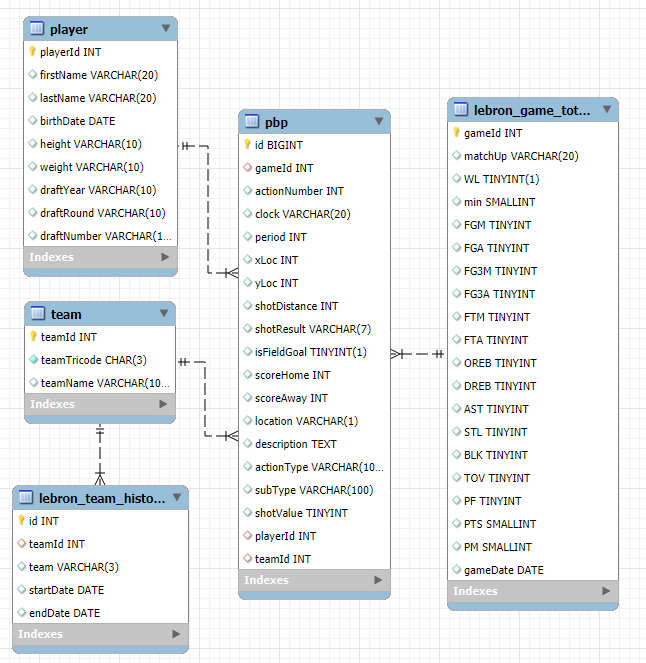
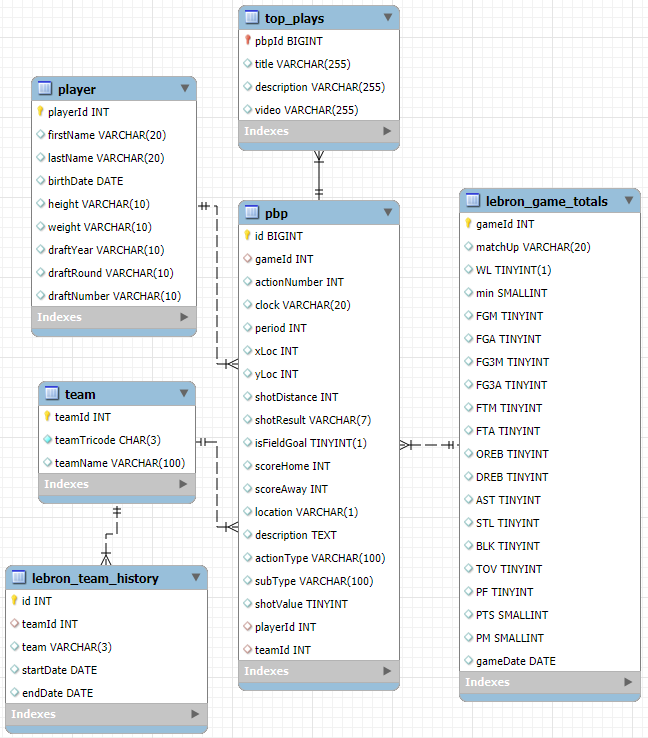
Successfully updated the lebron database
Remember to remove the definer clause from the dump file before
uploading to aiven. Aiven doesn't fw root@localhost

diff --git a/src/lebron/lebron.jsx b/src/lebron/lebron.jsx
@@ -1,4 +1,4 @@
-import { useState } from "react";
+import { useEffect, useState } from "react";
 import { Link } from "react-router-dom";
 import "./lebron.css";
 
@@ -6,16 +6,57 @@ const API_URL = (import.meta.env.VITE_API_URL || "https://personal-website-lomr.
 const quickQueries = [
   { label: "Random Field-goal Makes", query: "SELECT * FROM lebron_fg_makes ORDER BY RAND() LIMIT 10;" },
   { label: "Triple-Doubles", query: "SELECT * FROM triple_double LIMIT 50;" },
-  { label: "The Steph Curry Influence", query: "SELECT matchUp, FG3M, FG3A, gameDate FROM lebron_game_totals ORDER BY FG3M DESC LIMIT 10;"}
+  { label: "The Steph Curry Influence", query: "SELECT matchUp, FG3M, FG3A, gameDate FROM lebron_game_totals ORDER BY FG3M DESC LIMIT 10;"},
+  { label: "Top Plays", query: "SELECT * FROM top_plays;" }
 ];
 
 function getColumns(rows) {
   return [...new Set(rows.flatMap((row) => Object.keys(row)))];
 }
 
-function DataTable({ rows, emptyMessage }) {
+function parseYouTubeTimestamp(value) {
+  if (!value) return null;
+  if (/^\d+$/.test(value)) return Number(value);
+
+  const match = value.match(/^(?:(\d+)h)?(?:(\d+)m)?(?:(\d+)s)?$/);
+  if (!match || !match[0]) return null;
+
+  return (Number(match[1] || 0) * 3600) + (Number(match[2] || 0) * 60) + Number(match[3] || 0);
+}
+
+function getYouTubeEmbedUrl(value) {
+  if (typeof value !== "string") return null;
+
+  try {
+    const url = new URL(value);
+    let videoId = url.searchParams.get("v");
+
+    if (url.hostname === "youtu.be") {
+      videoId = url.pathname.slice(1);
+    } else if (url.pathname.startsWith("/embed/")) {
+      videoId = url.pathname.split("/embed/")[1];
+    } else if (url.pathname.startsWith("/shorts/")) {
+      videoId = url.pathname.split("/shorts/")[1];
+    }
+
+    if (!videoId || !["www.youtube.com", "youtube.com", "youtu.be"].includes(url.hostname)) {
+      return null;
+    }
+
+    const timestamp = parseYouTubeTimestamp(url.searchParams.get("t") || url.searchParams.get("start"));
+    const embedUrl = new URL(`https://www.youtube.com/embed/${videoId.split(/[?&#]/)[0]}`);
+    if (timestamp !== null) embedUrl.searchParams.set("start", timestamp);
+
+    return embedUrl.toString();
+  } catch {
+    return null;
+  }
+}
+
+function DataTable({ rows, emptyMessage, onVideoSelect }) {
   if (rows.length === 0) return <p className="lebron-empty">{emptyMessage}</p>;
   const columns = getColumns(rows);
+  const videoColumn = columns.find((column) => column.toLowerCase() === "video");
 
   return (
     <div className="lebron-table-wrap">
@@ -23,8 +64,25 @@ function DataTable({ rows, emptyMessage }) {
         <thead><tr>{columns.map((column) => <th key={column}>{column}</th>)}</tr></thead>
         <tbody>
           {rows.map((row, rowIndex) => (
-            <tr key={row.gameId ?? rowIndex}>
-              {columns.map((column) => <td key={column}>{row[column] ?? "-"}</td>)}
+            <tr
+              key={row.gameId ?? rowIndex}
+              className={videoColumn && getYouTubeEmbedUrl(row[videoColumn]) ? "lebron-video-row" : ""}
+              onClick={() => {
+                if (videoColumn && getYouTubeEmbedUrl(row[videoColumn])) onVideoSelect(row[videoColumn]);
+              }}
+              onKeyDown={(event) => {
+                if (videoColumn && getYouTubeEmbedUrl(row[videoColumn]) && (event.key === "Enter" || event.key === " ")) {
+                  event.preventDefault();
+                  onVideoSelect(row[videoColumn]);
+                }
+              }}
+              tabIndex={videoColumn && getYouTubeEmbedUrl(row[videoColumn]) ? 0 : undefined}
+            >
+              {columns.map((column) => (
+                <td key={column}>
+                  {column === videoColumn && getYouTubeEmbedUrl(row[column]) ? "Watch video" : row[column] ?? "-"}
+                </td>
+              ))}
             </tr>
           ))}
         </tbody>
@@ -38,6 +96,20 @@ export default function Lebron() {
   const [queryRows, setQueryRows] = useState(null);
   const [queryLoading, setQueryLoading] = useState(false);
   const [queryError, setQueryError] = useState("");
+  const [selectedVideo, setSelectedVideo] = useState(null);
+
+  useEffect(() => {
+    window.scrollTo(0, 0);
+  }, []);
+
+  useEffect(() => {
+    const closeOnEscape = (event) => {
+      if (event.key === "Escape") setSelectedVideo(null);
+    };
+
+    document.addEventListener("keydown", closeOnEscape);
+    return () => document.removeEventListener("keydown", closeOnEscape);
+  }, []);
 
   const runQuery = async (queryToRun) => {
     setQueryLoading(true);
@@ -83,7 +155,7 @@ export default function Lebron() {
       <Link className="lebron-back-link" to="/">Back to Personal Website</Link>
       <header className="lebron-hero">
         <p className="lebron-kicker">NBA data lab</p>
-        <h1>LeBron James Regular Season Play-by-Play Data</h1>
+        <h1>LeBron James Regular Season Play-by-Play Database</h1>
       </header>
       <section className="lebron-section lebron-query-section" aria-labelledby="query-heading">
         <div className="lebron-section-heading"><div><p className="lebron-kicker">Read-only explorer</p><h2 id="query-heading">Query the database</h2></div></div>
@@ -104,6 +176,7 @@ export default function Lebron() {
               <li>team</li>
               <li>lebron_game_totals</li>
               <li>lebron_team_history</li>
+              <li>top_plays</li>
             </ul>
           </div>
         </div>
@@ -120,13 +193,12 @@ export default function Lebron() {
           </div>
         </form>
         {queryError && <p className="lebron-state lebron-error">{queryError}</p>}
-        {queryRows && <DataTable rows={queryRows} emptyMessage="The query returned no rows." />}
+        {queryRows && <DataTable rows={queryRows} emptyMessage="The query returned no rows." onVideoSelect={setSelectedVideo} />}
       </section>
       <section className="lebron-section lebron-erd-section" aria-labelledby="database-layout-heading">
         <div className="lebron-section-heading">
           <div>
-            <p className="lebron-kicker">Database structure</p>
-            <h2 id="database-layout-heading">Database Layout</h2>
+            <p className="lebron-kicker">Database Layout</p>
           </div>
         </div>
         <div id='database-info'>
@@ -138,6 +210,21 @@ export default function Lebron() {
         
         </div>
       </section>
+      {selectedVideo && (
+        <div className="lebron-video-modal" role="presentation" onClick={() => setSelectedVideo(null)}>
+          <div className="lebron-video-dialog" role="dialog" aria-modal="true" aria-label="Play video" onClick={(event) => event.stopPropagation()}>
+            <button className="lebron-video-close" type="button" onClick={() => setSelectedVideo(null)} aria-label="Close video">Close</button>
+            <iframe
+              className="lebron-video-frame"
+              src={getYouTubeEmbedUrl(selectedVideo)}
+              title="YouTube video player"
+              allow="accelerometer; autoplay; clipboard-write; encrypted-media; gyroscope; picture-in-picture; web-share"
+              allowFullScreen
+            />
+            <a className="lebron-video-direct-link" href={selectedVideo} target="_blank" rel="noreferrer">Open on YouTube</a>
+          </div>
+        </div>
+      )}
     </main>
   );
 }

diff --git a/src/lebron/lebron.css b/src/lebron/lebron.css
@@ -46,7 +46,7 @@
 .lebron-hero h1 {
 	margin: 8px 0 12px;
 	color: var(--lebron-ink);
-	font-size: clamp(2.5rem, 7vw, 5.5rem);
+	font-size: clamp(2rem, 7vw, 5rem);
 	line-height: 0.98;
 	letter-spacing: -0.04em;
 }
@@ -121,6 +121,20 @@
 	background: #f2f8fc;
 }
 
+.lebron-video-row {
+	cursor: pointer;
+}
+
+.lebron-video-row td:last-child {
+	color: var(--lebron-blue);
+	font-weight: 700;
+}
+
+.lebron-video-row:focus {
+	outline: 2px solid var(--lebron-blue);
+	outline-offset: -2px;
+}
+
 .lebron-state,
 .lebron-empty {
 	padding: 20px 0;
@@ -142,7 +156,7 @@
 	display: flex;
 	align-items: center;
 	flex-wrap: wrap;
-	gap: 10px;
+	gap: 8px;
 	flex: 1;
 	color: var(--lebron-muted);
 	font-size: 0.85rem;
@@ -155,7 +169,7 @@
 
 .lebron-quick-searches button {
 	border: 1px solid #b8c8d3;
-	padding: 8px 12px;
+	padding: 7px 10px;
 	color: var(--lebron-blue);
 	background: white;
 	cursor: pointer;
@@ -266,6 +280,50 @@
     max-height: 700px;
 }
 
+.lebron-video-modal {
+	position: fixed;
+	inset: 0;
+	display: grid;
+	place-items: center;
+	z-index: 10;
+	padding: 24px;
+	background: rgba(23, 33, 43, 0.72);
+}
+
+.lebron-video-dialog {
+	position: relative;
+	width: min(900px, 100%);
+	padding: 52px 24px 24px;
+	background: white;
+	box-shadow: 0 20px 60px rgba(0, 0, 0, 0.3);
+}
+
+.lebron-video-close {
+	position: absolute;
+	top: 14px;
+	right: 14px;
+	border: 1px solid var(--lebron-line);
+	padding: 8px 12px;
+	color: var(--lebron-ink);
+	background: white;
+	cursor: pointer;
+	font-weight: 700;
+}
+
+.lebron-video-frame {
+	display: block;
+	width: 100%;
+	aspect-ratio: 16 / 9;
+	border: 0;
+}
+
+.lebron-video-direct-link {
+	display: inline-block;
+	margin-top: 14px;
+	color: var(--lebron-blue);
+	font-weight: 700;
+}
+
 @media (max-width: 640px) {
 	.lebron-page {
 		padding: 48px 16px 64px;
@@ -292,5 +350,6 @@
 
 	#table-names {
 		flex-basis: auto;
+		order: -1;
 	}
 }
